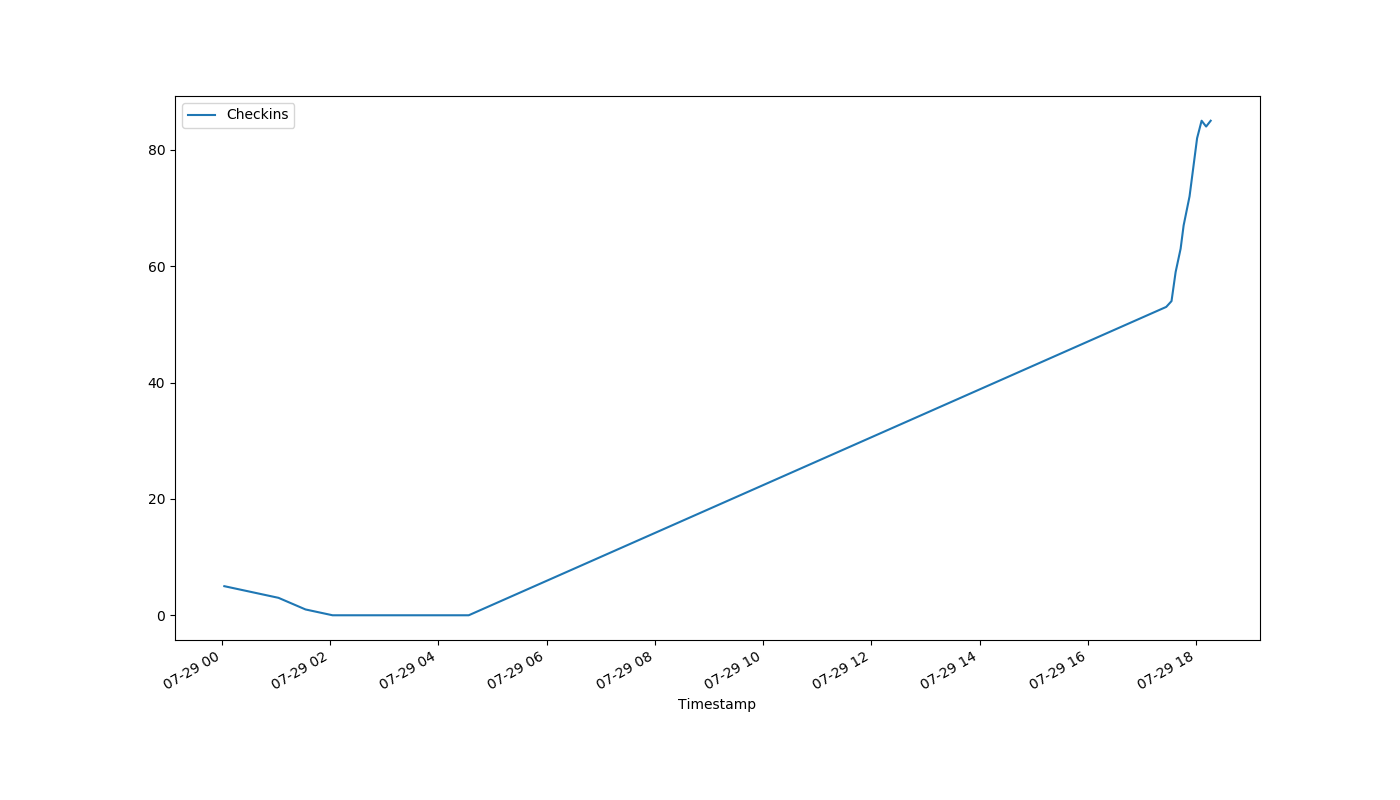
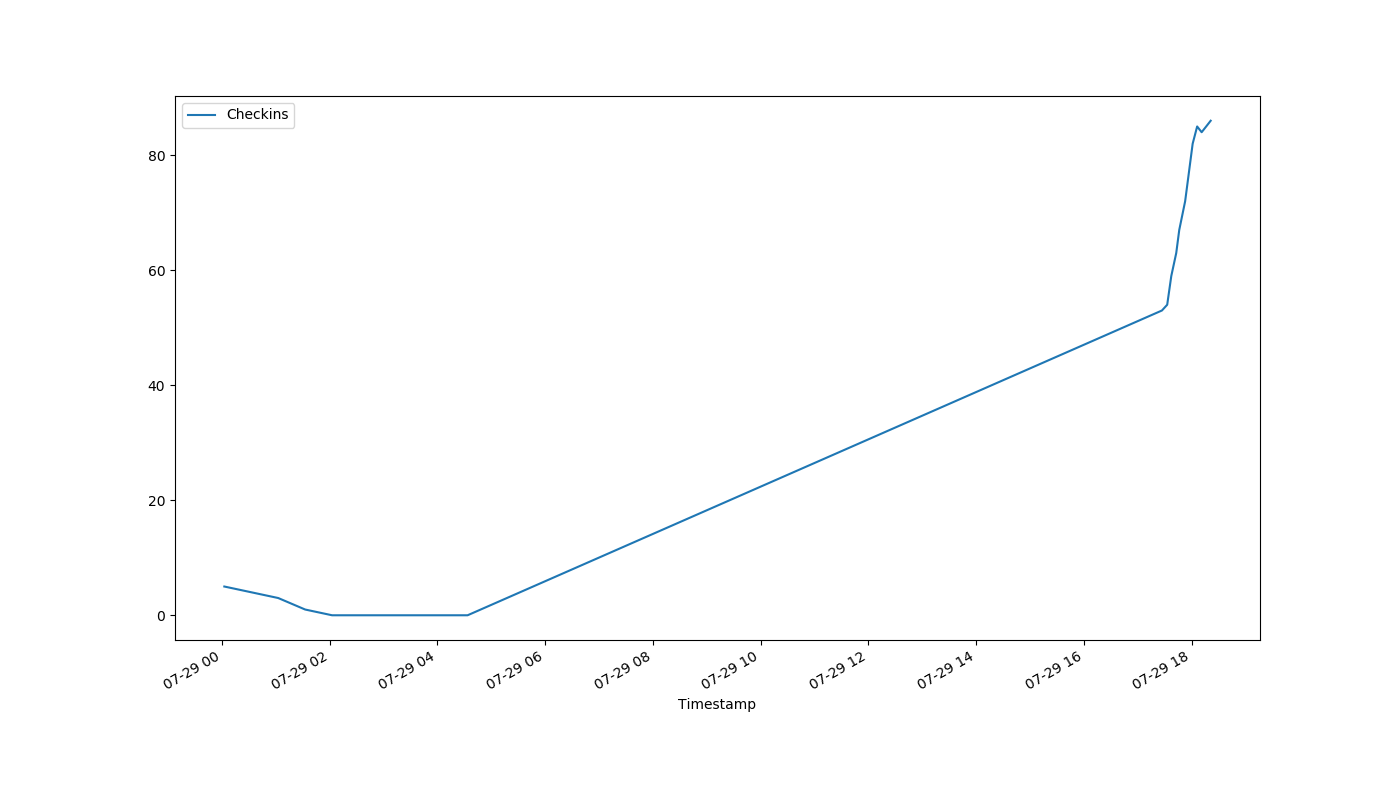
auto-Jul-29-18:22:49

diff --git a/index.html b/index.html
@@ -1,1 +1,1 @@
-<!DOCTYPE html><html><head><meta http-equiv="refresh" content="30"><link rel='stylesheet' href='holmcurrent.css'></head><body><p id='count'>85</p><div id='graph-wrap'><img id='graph' src='holmgraph-Jul-29.png'></div><p id='updated'>Last updated 18:17:01 / 18:16:10</p></body></html>
+<!DOCTYPE html><html><head><meta http-equiv="refresh" content="30"><link rel='stylesheet' href='holmcurrent.css'></head><body><p id='count'>86</p><div id='graph-wrap'><img id='graph' src='holmgraph-Jul-29.png'></div><p id='updated'>Last updated 18:22:01 / 18:21:11</p></body></html>
